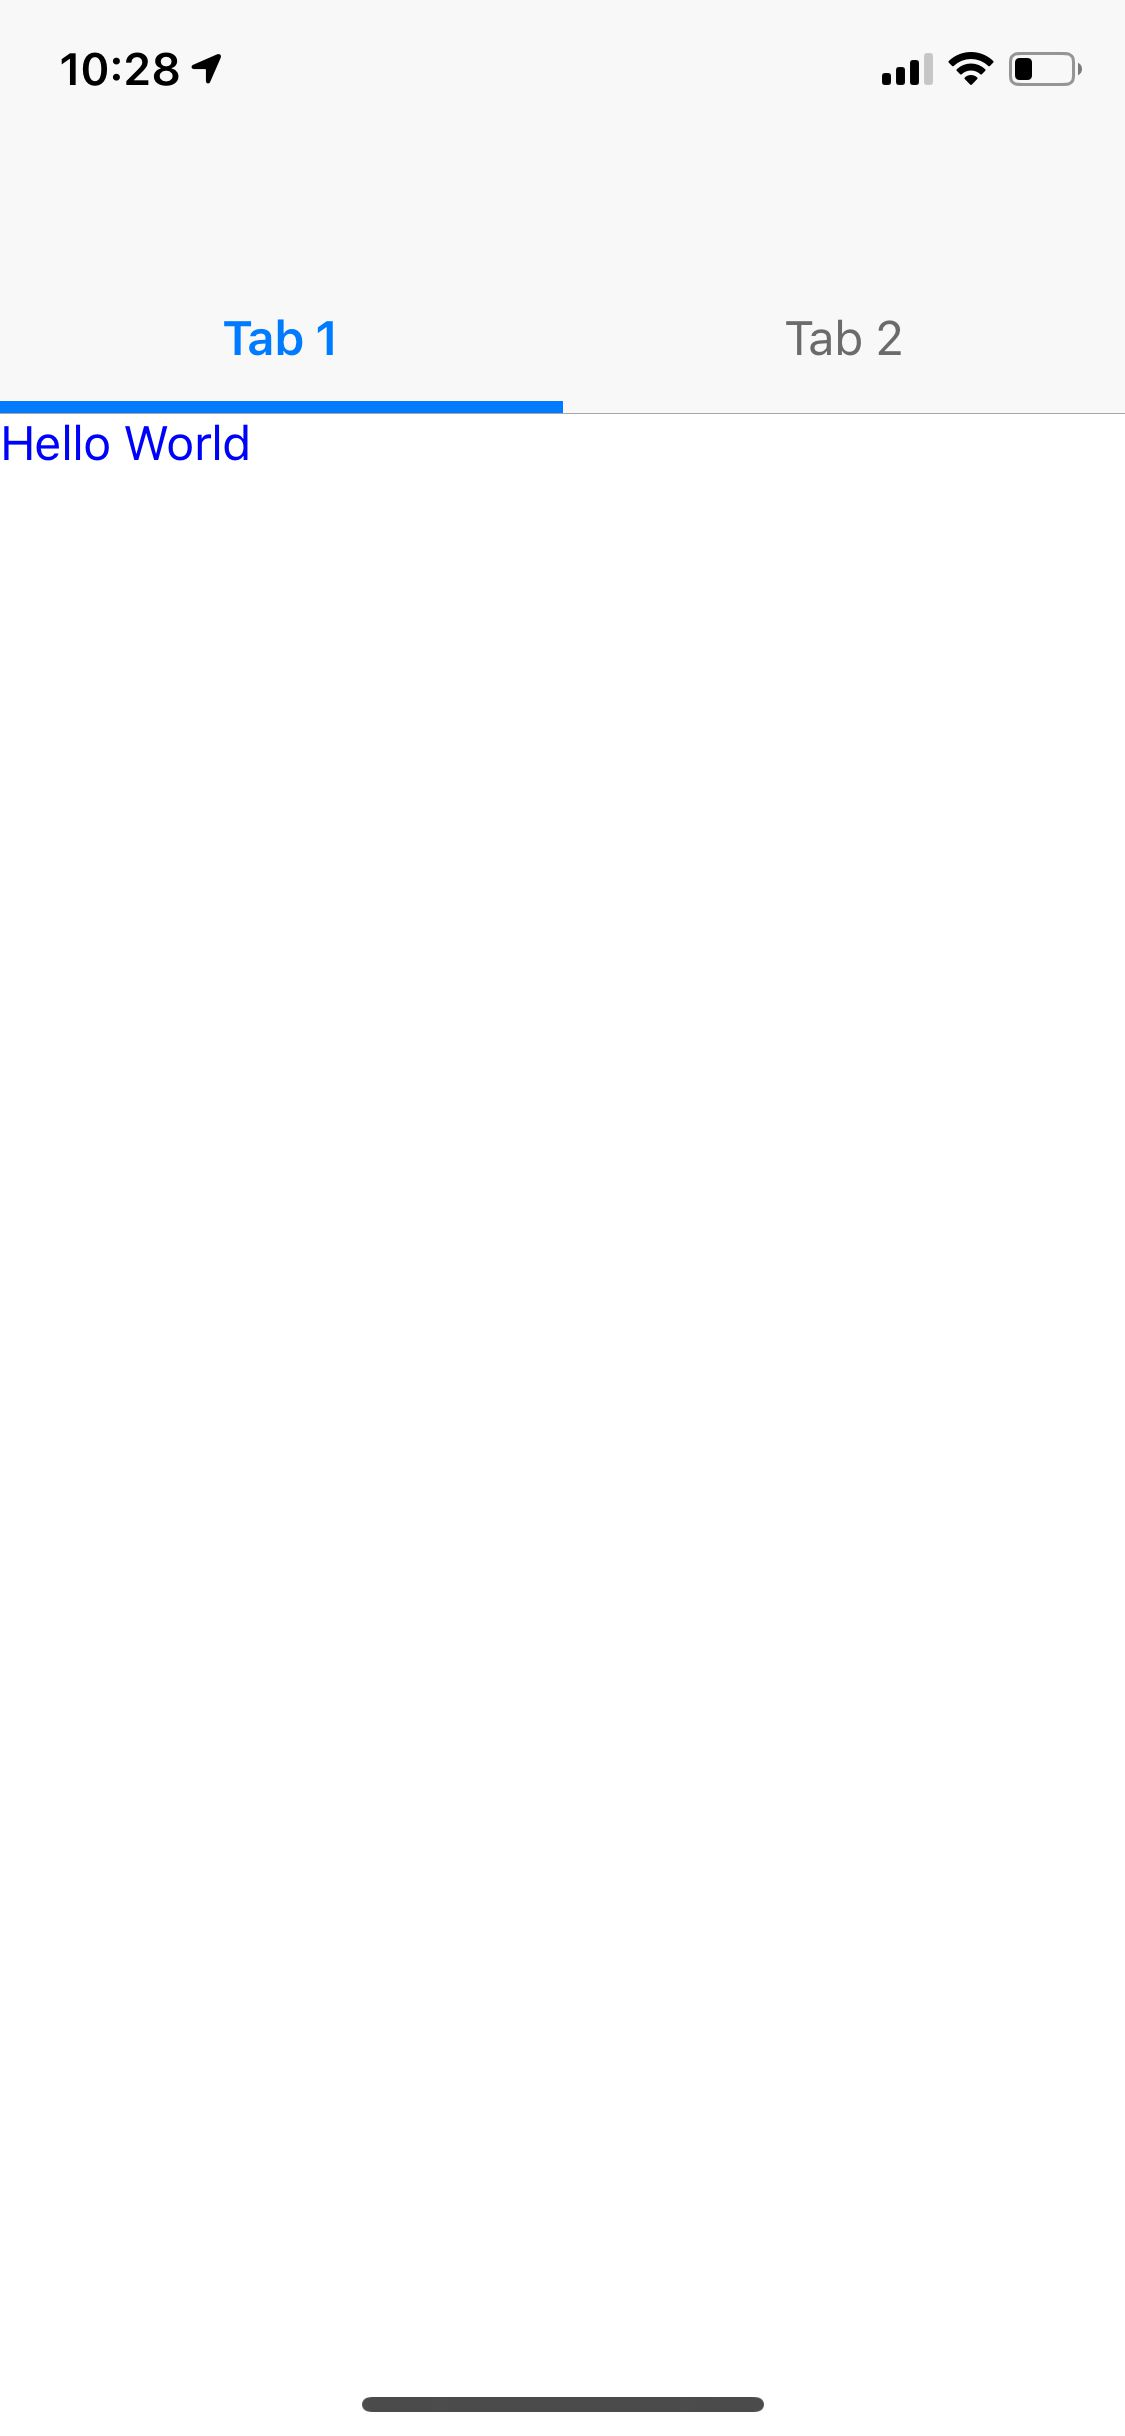
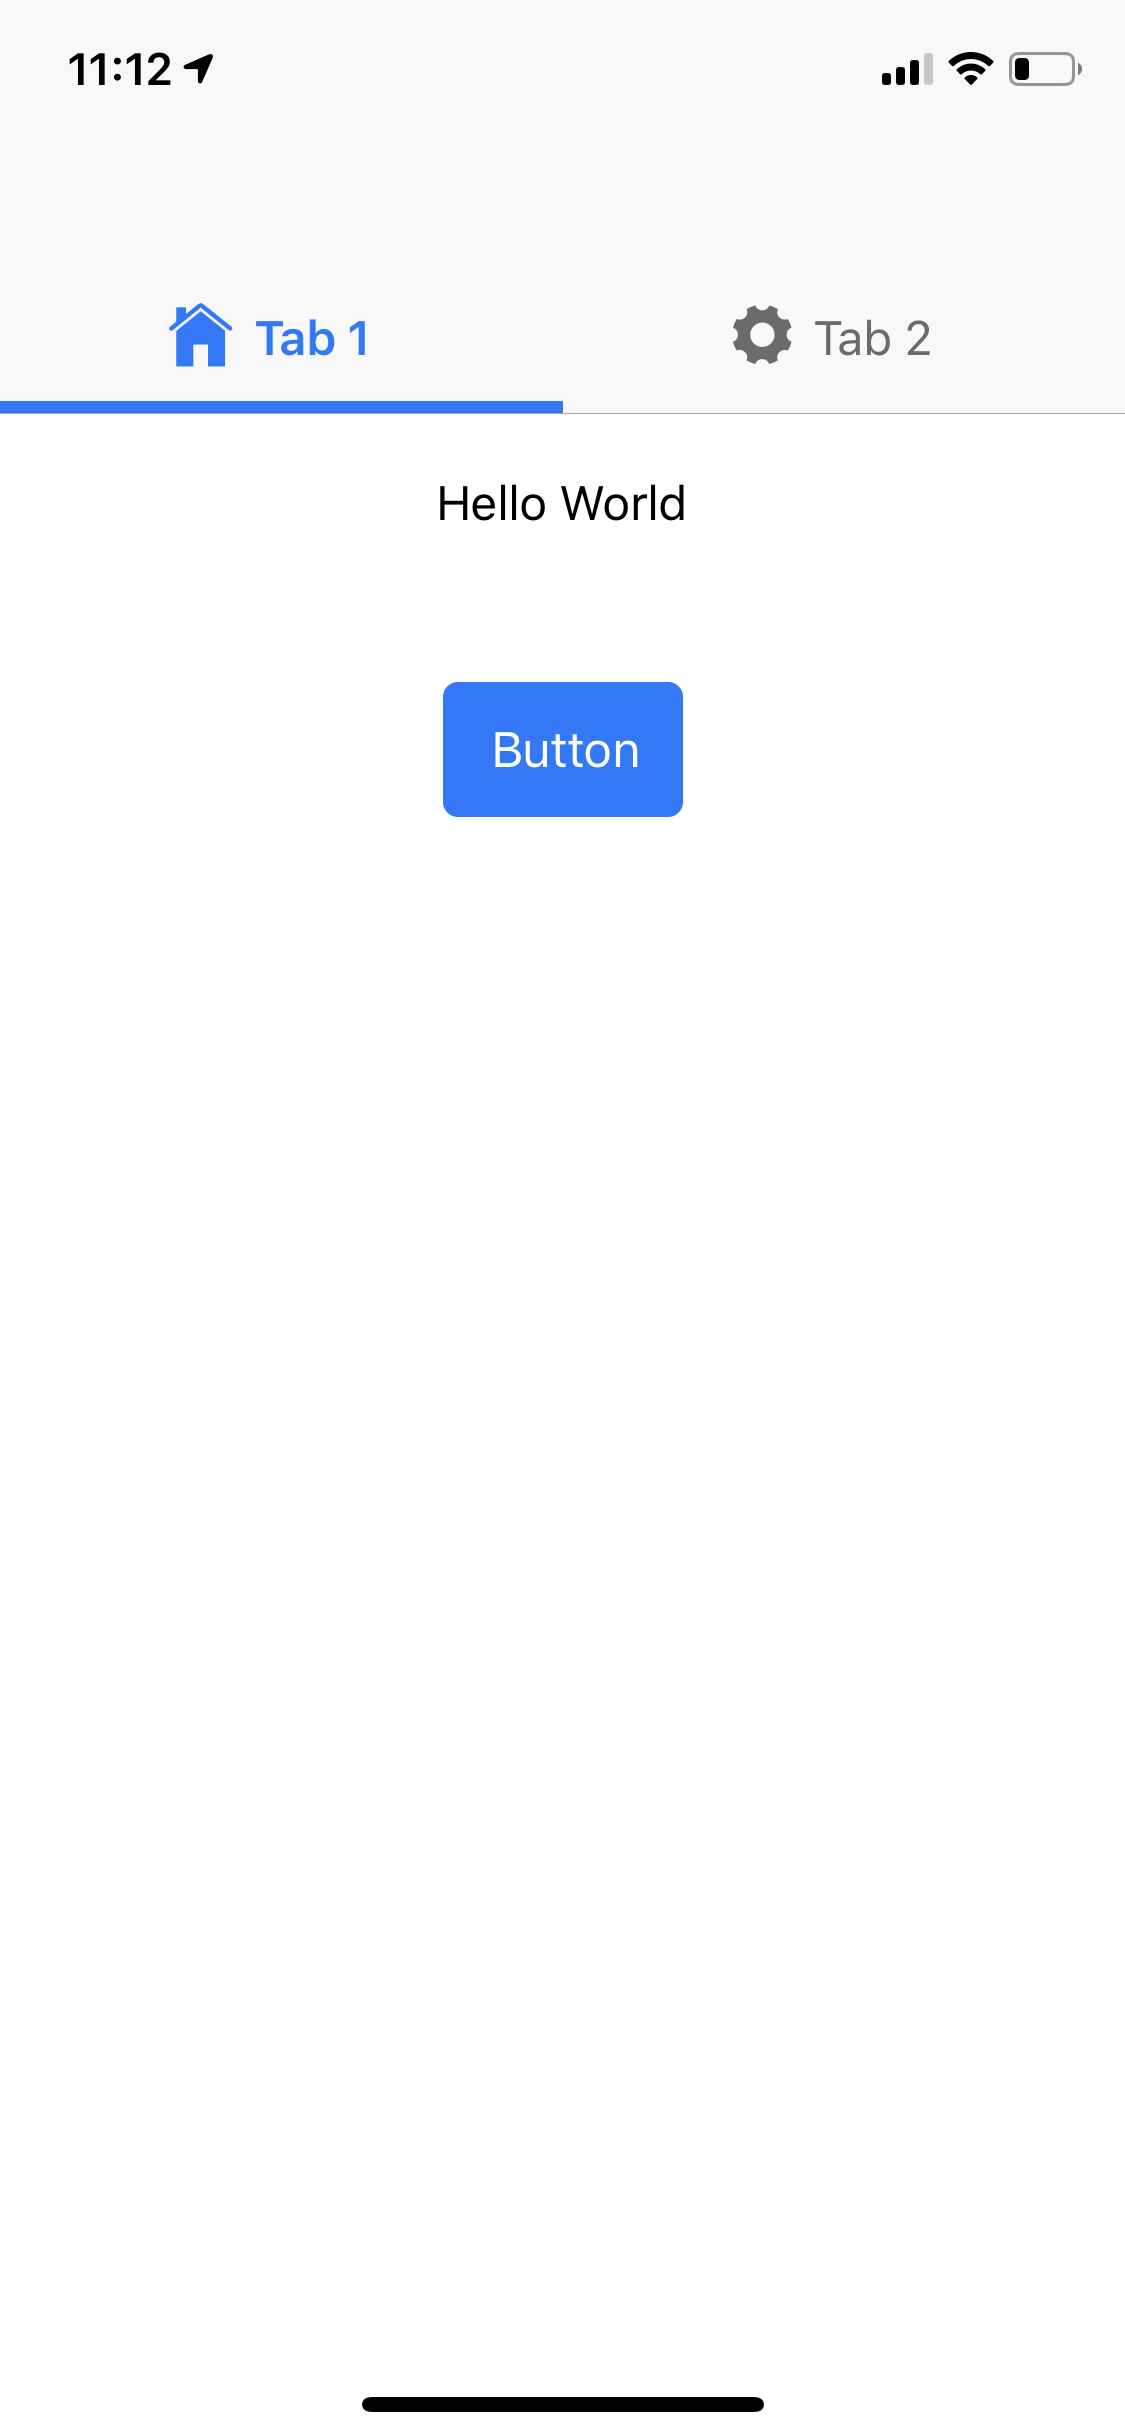
styling changes and minor additions

diff --git a/App.js b/App.js
@@ -1,7 +1,16 @@
 import React from "react";
 import { StyleSheet, View } from "react-native";
-import { Tabs, Tab, Container, Header, TabHeading, Text } from "native-base";
+import {
+  Tabs,
+  Tab,
+  Container,
+  Header,
+  TabHeading,
+  Text,
+  Icon
+} from "native-base";
 import { TabOne, TabTwo } from "./client/components";
+import { Ionicons } from "@expo/vector-icons";
 
 export default class App extends React.Component {
   render() {
@@ -13,6 +22,7 @@ export default class App extends React.Component {
             <Tab
               heading={
                 <TabHeading>
+                  <Icon name="home" />
                   <Text>Tab 1</Text>
                 </TabHeading>
               }
@@ -22,6 +32,7 @@ export default class App extends React.Component {
             <Tab
               heading={
                 <TabHeading>
+                  <Icon name="settings" />
                   <Text>Tab 2</Text>
                 </TabHeading>
               }

diff --git a/client/components/TabOne.js b/client/components/TabOne.js
@@ -1,18 +1,28 @@
 import React from "react";
-import { Text } from "native-base";
+import { Text, Button } from "native-base";
 import { View, StyleSheet } from "react-native";
 
 const TabOne = () => {
   return (
     <View>
       <Text style={styles.text}>Hello World</Text>
+
+      <Button style={styles.button}>
+        <Text>Button</Text>
+      </Button>
     </View>
   );
 };
 
 const styles = StyleSheet.create({
   text: {
-    color: "blue"
+    alignSelf: "center",
+    marginTop: 20
+  },
+  button: {
+    width: 80,
+    alignSelf: "center",
+    marginTop: 50
   }
 });
 

diff --git a/client/components/TabTwo.js b/client/components/TabTwo.js
@@ -12,7 +12,9 @@ const TabTwo = () => {
 
 const styles = StyleSheet.create({
   text: {
-    color: "orange"
+    color: "orange",
+    alignSelf: "center",
+    marginTop: 20
   }
 });
 
